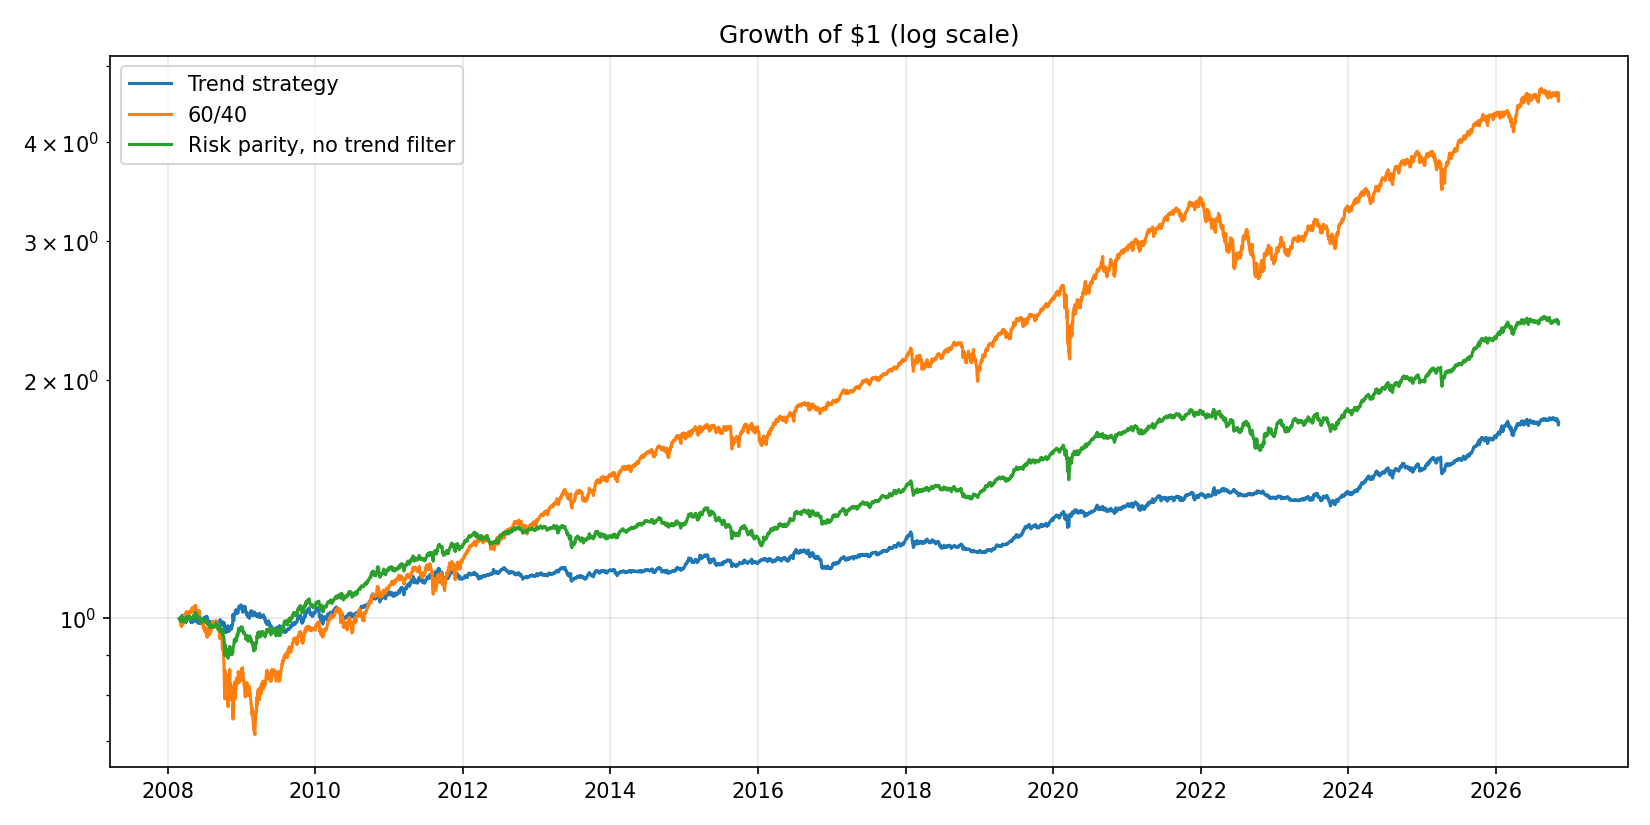
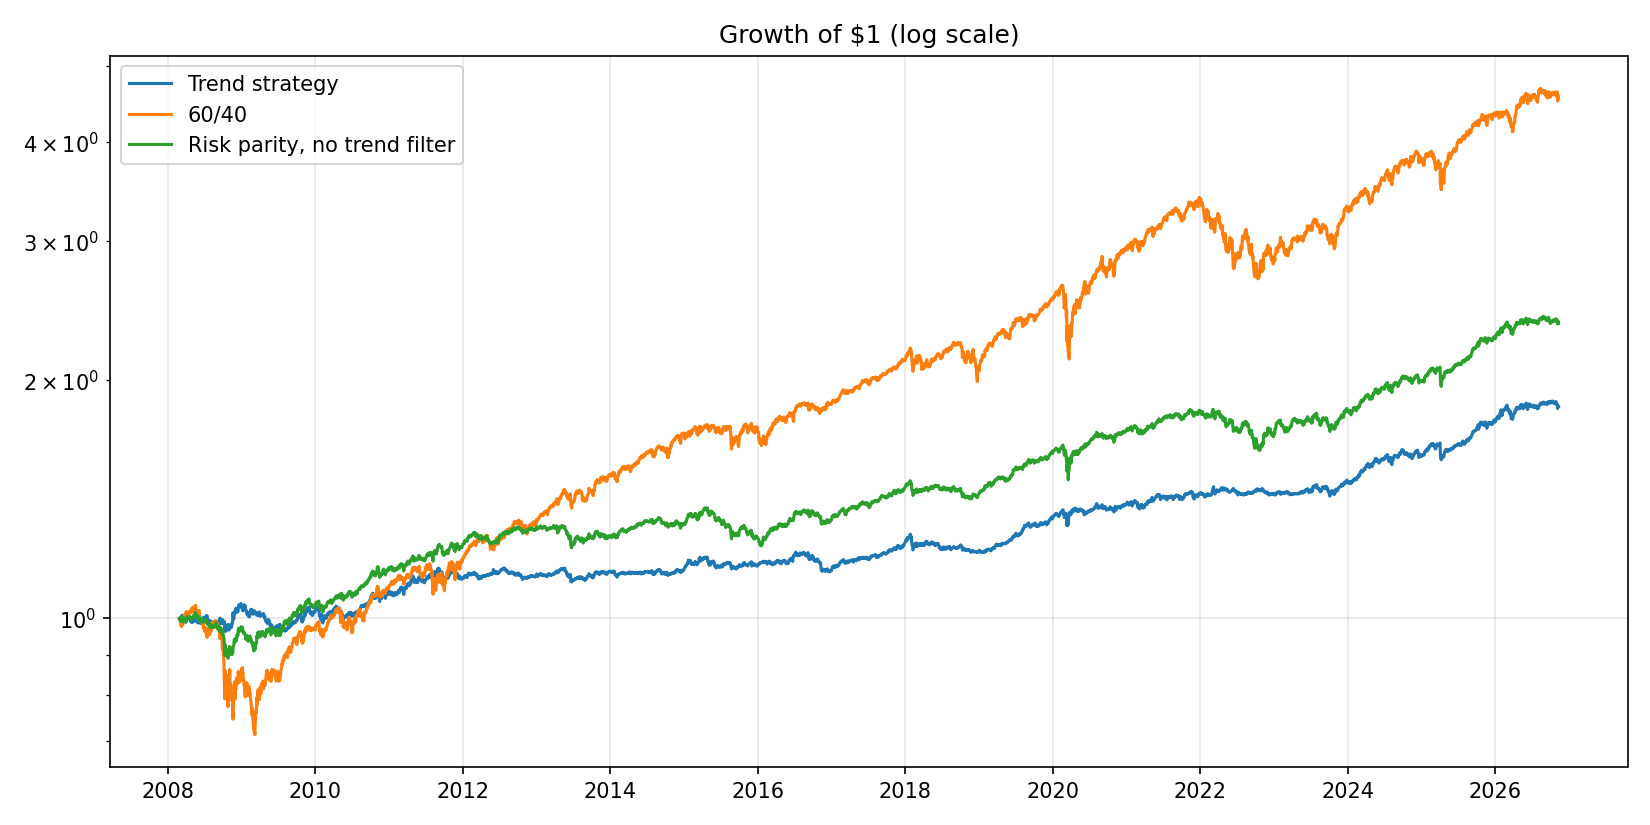
Add T-bill cash, Alpaca connection, project brief

diff --git a/src/backtest.py b/src/backtest.py
@@ -22,7 +22,7 @@ import matplotlib.pyplot as plt
 import numpy as np
 import pandas as pd
 
-from config import COST_BPS, REBALANCE_DAY, UNIVERSE
+from config import CASH_TICKER, COST_BPS, REBALANCE_DAY, UNIVERSE
 from strategy import inverse_vol_weights, target_weights
 
 ROOT = Path(__file__).resolve().parent.parent
@@ -56,7 +56,7 @@ def run_backtest(prices: pd.DataFrame, weights: pd.DataFrame, start) -> pd.DataF
 
         rows.append({"date": date, "return": day_return - cost,
                      "turnover": traded, "cost": cost,
-                     "invested": float(holdings.sum())})
+                     "risky": float(holdings.drop(CASH_TICKER, errors="ignore").sum())})
 
     result = pd.DataFrame(rows).set_index("date")
     result["equity"] = (1 + result["return"]).cumprod()
@@ -79,12 +79,16 @@ def metrics(result: pd.DataFrame) -> dict:
         "Hit rate (weeks)": f"{(weekly > 0).mean():.0%}",
         "Turnover / year": f"{result['turnover'].sum() / years:.1f}x",
         "Costs / year": f"{result['cost'].sum() / years:.2%}",
-        "Avg invested": f"{result['invested'].mean():.0%}",
+        "Avg in risky assets": f"{result['risky'].mean():.0%}",
     }
 
 
 def main() -> None:
-    prices = pd.read_csv(PRICES_FILE, index_col=0, parse_dates=True)[list(UNIVERSE)]
+    all_prices = pd.read_csv(PRICES_FILE, index_col=0, parse_dates=True)
+    if CASH_TICKER not in all_prices:
+        raise SystemExit(f"{CASH_TICKER} missing: re-run  python src/data.py  first.")
+    prices = all_prices[list(UNIVERSE)]
+    trade_prices = all_prices[list(UNIVERSE) + [CASH_TICKER]]
 
     strategy_w = target_weights(prices)
     # Start once every asset has a full signal + volatility history.
@@ -98,7 +102,7 @@ def main() -> None:
     always_in = inverse_vol_weights(prices)
 
     results = {
-        "Trend strategy": run_backtest(prices, strategy_w, start),
+        "Trend strategy": run_backtest(trade_prices, strategy_w, start),
         "60/40": run_backtest(prices, sixty_forty, start),
         "Risk parity, no trend filter": run_backtest(prices, always_in, start),
     }

diff --git a/src/alpaca_check.py b/src/alpaca_check.py
@@ -1,0 +1,44 @@
+"""
+Connection test: proves the code can talk to your Alpaca PAPER account.
+
+It only READS (account balance, market clock, latest SPY price).
+It places no orders.
+
+Run from the project folder:   python src/alpaca_check.py
+"""
+
+import os
+from datetime import datetime, timedelta
+
+from alpaca.data.historical import StockHistoricalDataClient
+from alpaca.data.requests import StockBarsRequest
+from alpaca.data.timeframe import TimeFrame
+from alpaca.trading.client import TradingClient
+from dotenv import load_dotenv
+
+load_dotenv()  # reads the keys from the .env file into memory
+KEY = os.getenv("ALPACA_API_KEY")
+SECRET = os.getenv("ALPACA_SECRET_KEY")
+if not KEY or "your_" in KEY:
+    raise SystemExit("No keys found: paste your paper keys into the .env file first.")
+
+# paper=True is the safety switch: orders can only ever go to fake money.
+trading = TradingClient(KEY, SECRET, paper=True)
+account = trading.get_account()
+clock = trading.get_clock()
+
+print("Connected to Alpaca PAPER account")
+print(f"  Status:        {account.status}")
+print(f"  Equity:        ${float(account.equity):,.2f}")
+print(f"  Cash:          ${float(account.cash):,.2f}")
+print(f"  Market open?   {clock.is_open}  (next open {clock.next_open:%a %d %b %H:%M})")
+
+# Market data test: hourly SPY bars, the kind of data strategy 2 will use.
+data = StockHistoricalDataClient(KEY, SECRET)
+bars = data.get_stock_bars(StockBarsRequest(
+    symbol_or_symbols="SPY",
+    timeframe=TimeFrame.Hour,
+    start=datetime.now() - timedelta(days=5),
+    end=datetime.now() - timedelta(minutes=20),  # free data is delayed 15 min
+)).df
+print(f"\nLast 3 hourly SPY bars:\n{bars.tail(3)[['open', 'high', 'low', 'close', 'volume']]}")

diff --git a/src/data.py b/src/data.py
@@ -13,7 +13,7 @@ from pathlib import Path
 import pandas as pd
 import yfinance as yf
 
-from config import UNIVERSE
+from config import CASH_TICKER, UNIVERSE
 
 DATA_DIR = Path(__file__).resolve().parent.parent / "data"
 PRICES_FILE = DATA_DIR / "prices.csv"
@@ -26,7 +26,7 @@ def download_prices() -> pd.DataFrame:
     That matters a lot here: TLT pays a monthly coupon. Using raw prices
     would understate bond returns and make the backtest wrong.
     """
-    tickers = list(UNIVERSE)
+    tickers = list(UNIVERSE) + [CASH_TICKER]
     raw = yf.download(tickers, start="2000-01-01", auto_adjust=True, progress=False)
     prices = raw["Close"][tickers]  # keep our column order
     prices.index = pd.to_datetime(prices.index).tz_localize(None)

diff --git a/src/strategy.py b/src/strategy.py
@@ -20,7 +20,7 @@ is switched off sits in cash.
 import numpy as np
 import pandas as pd
 
-from config import LOOKBACK_DAYS, VOL_DAYS
+from config import CASH_TICKER, LOOKBACK_DAYS, VOL_DAYS
 
 
 def trend_signal(prices: pd.DataFrame) -> pd.DataFrame:
@@ -50,4 +50,8 @@ def target_weights(prices: pd.DataFrame) -> pd.DataFrame:
     the defensive feature: in 2008 or 2022, most things fall and the
     strategy steps aside.
     """
-    return inverse_vol_weights(prices) * trend_signal(prices)
+    risky = inverse_vol_weights(prices) * trend_signal(prices)
+    # Whatever is not invested goes into T-bills (BIL) instead of 0% cash.
+    weights = risky.copy()
+    weights[CASH_TICKER] = 1 - risky.sum(axis=1, min_count=1)
+    return weights

diff --git a/src/config.py b/src/config.py
@@ -21,6 +21,11 @@ UNIVERSE = {
     "UUP": "US dollar index (long USD vs EUR, JPY, GBP...)",
 }
 
+# Where idle cash sits: BIL holds 1-3 month US Treasury bills, so it earns
+# roughly the Fed funds rate. Holding it (instead of plain cash) is also
+# exactly what we will do live on Alpaca, so the backtest matches reality.
+CASH_TICKER = "BIL"
+
 # Backtest starts once every ETF has trading history (UUP launched Feb 2007).
 START_DATE = "2007-03-01"
 

diff --git a/CLAUDE.md b/CLAUDE.md
@@ -1,0 +1,48 @@
+# Project brief for Claude
+
+## Who I am
+Jean, sophomore at Boston University (Economics & CS), recruiting for Sales & Trading
+internships (summer 2028). New to coding, Git and the terminal: explain every step
+in plain English, go one step at a time, and explain code so I can defend it in an
+interview. I want to be a trader, not a developer: market logic matters more than
+clever code.
+
+## The project
+A passion project I'll update several times a week and show to friends, family and
+people in the industry. Two strategy "books", run like a small trading desk:
+
+- **Book 1, core (DONE: backtest; TODO: live):** cross-asset trend following on 8 ETFs
+  (SPY, EFA, EEM, TLT, IEF, GLD, DBC, UUP). Hold an asset if its 12-month return > 0,
+  size by inverse 60-day volatility (risk parity), idle cash in BIL (T-bills),
+  rebalance weekly at Friday close, 5bp cost per dollar traded. Long-only, no leverage.
+  Backtest 2008-2026: 3.4%/yr, vol 4.5%, Sharpe 0.76, max DD -7.7%, vs 60/40
+  (8.5%, Sharpe 0.77, DD -31.4%) and the same basket with no trend filter
+  (4.7%, Sharpe 0.83, DD -12.5%). Honest takeaway: the trend filter cut drawdowns
+  but lowered Sharpe vs. always holding the basket. We report this as is.
+- **Book 2, tactical (NEXT):** short-term mean reversion: buy sharp intraday dips in
+  ~10 liquid ETFs and sell the bounce, a few trades per day on hourly/15-min bars from
+  Alpaca. Needs a stop-loss rule and realistic costs (costs dominate at this
+  frequency). Design it with me before coding.
+- **Phase 2 idea:** volatility-regime filter (VIX vs VIX3M term structure).
+
+## Rules
+- Don't overfit: pick parameters up front from standard values, no tuning to results.
+- Be honest when something doesn't work; that's still a good story.
+- Paper trading only (`paper=True`). No real money until paper has run 1+ month.
+- API keys live in `.env` (git-ignored). Never print, log or commit them.
+- Ask before pushing to GitHub or placing any orders, even paper ones.
+
+## Setup
+- Mac, project at ~/Desktop/trading-algo, Python 3.9 in `.venv`
+  (`source .venv/bin/activate`). GitHub repo: jean29-git/trading-algo (private),
+  managed with GitHub Desktop.
+- `src/config.py` settings, `src/data.py` yfinance download + quality checks,
+  `src/strategy.py` signal + weights, `src/backtest.py` engine + metrics + chart,
+  `src/alpaca_check.py` read-only Alpaca connection test (working).
+
+## Next steps
+1. Commit current work in GitHub Desktop.
+2. Book 1 live: script that computes this week's target weights and rebalances the
+   Alpaca paper account (show orders and ask before sending).
+3. Book 2: design together, then data (Alpaca intraday bars), backtest, go live.
+4. Weekly "trader's note" on positions/P&L and why; README write-up at the end.
